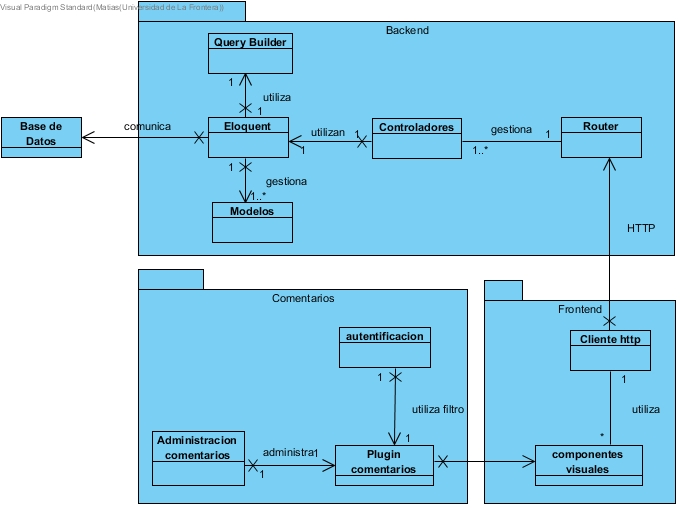
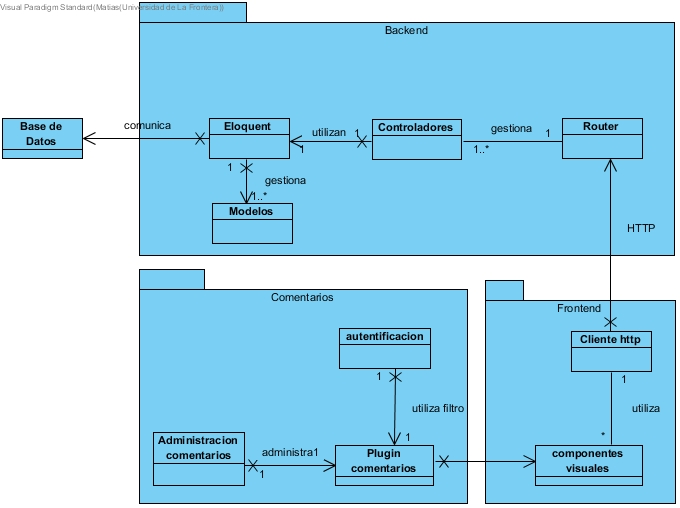
Update estructura

diff --git a/docs/data/3_estructura.rst b/docs/data/3_estructura.rst
@@ -8,13 +8,13 @@ Visión general
     :scale: 60%
     :align: center
 
-El sistema se divide en 2 componentes, un backend y un frontend. Ademas de trabajar en conjunto con un motor de base de datos y un plugin comercial para el manejo de las preguntas
+El sistema se divide en 2 componentes, un backend y un Frontend. Además de trabajar en conjunto con un motor de base de datos y un plugin comercial para el manejo de las preguntas
 
-el backend es una api que recibe y maneja peticiones HTTP considerandose un servicio RESTful con una arquitectura orientada a servicios. Cuenta con un manejador de rutas que asigna las peticiones a los controladore correspondientes, aparte de asignarlo por controlador la asignacion se realiza segun el verbo de la peticion (GET, PUT) a las diferentes funciones dentro de cada controlador. El backend accede a los registros de la base de datos a traves de un ORM que sigue el patron arquitectural de registro activo, el uso del ORM permite la independecia del backend en relacion al motor de la base de datos.
+El backend es una API que recibe y maneja peticiones HTTP considerándose un servicio RESTful con una arquitectura orientada a servicios. Cuenta con un manejador de rutas que asigna las peticiones a los controladores correspondientes, aparte de asignarlo por controlador la asignación se realiza según el verbo de la petición (GET, PUT) a las diferentes funciones dentro de cada controlador. El backend accede a los registros de la base de datos a través de un ORM que sigue el patrón arquitectural de registro activo, el uso del ORM permite la independencia del backend en relación al motor de la base de datos.
 
-los modelos permiten relacionar la estructura de la base de datos para que el ORM pueda pueda detectar automaticamente las tablas y sus atributos. Las consultas a la base de datos se afectuan a travez de un contructor de consultas, este constructor de consultas  utiliza el enlace de parámetros PDO (PHP Data Objects) para proteger su aplicación contra ataques de inyección de SQL.
+los modelos permiten relacionar la estructura de la base de datos para que el ORM pueda detectar automáticamente las tablas y sus atributos. Las consultas a la base de datos se efectúan a través de un constructor de consultas, este constructor de consultas utiliza el enlace de parámetros PDO (PHP Data Objects) para proteger su aplicación contra ataques de inyección de SQL.
 
-el frontend bla bla bla bla
+El Frontend es una aplicación web de página única (SPA por sus siglas en ingles) esto quiere decir que cada componente se carga una vez, ya sea los códigos HTML, JavaScript o CSS. el resto de recursos se carga dinámicamente según la pagina lo requiera 
 
 
 Descripcion de componentes
@@ -86,20 +86,6 @@ Componentes Backend
 | **Problemas**             |                                                                             |
 +---------------------------+-----------------------------------------------------------------------------+
 
-+---------------------------+-----------------------------------------------------------------------------+
-| **Componente**            | Backend_Query_Builder                                                       |
-+---------------------------+-----------------------------------------------------------------------------+
-| **Responsabilidades**     | - facilitar la sintaxis de la creacion de consultas hacia la base de datos  |
-|                           |   y ayudar en la seguridad impidiendo inyecciones SQL                       |
-+---------------------------+-----------------------------------------------------------------------------+
-| **Colaboradores**         | - **Componente:** Eloquent                                                  |
-|                           |                                                                             |
-+---------------------------+-----------------------------------------------------------------------------+
-| **Notas**                 | El componente se crea una sola vez y persiste durante todo el tiempo.       |
-|                           |                                                                             |
-+---------------------------+-----------------------------------------------------------------------------+
-| **Problemas**             |                                                                             |
-+---------------------------+-----------------------------------------------------------------------------+
 
 +---------------------------+-----------------------------------------------------------------------------+
 | **Componente**            | Backend_Modelos                                                             |
@@ -120,10 +106,9 @@ Componente Base de Datos
 --------------
 
 +---------------------------+-----------------------------------------------------------------------------+
-| **Componente**            | Backend_Modelos                                                             |
+| **Componente**            | Backend_Base_de_Datos                                                       |
 +---------------------------+-----------------------------------------------------------------------------+
-| **Responsabilidades**     | - facilitar la comprension de la estructura y forma de lo datos a obtener   |
-|                           |   u almacenar en la base de datos                                           |
+| **Responsabilidades**     | - almacenar todos los registros a los que el usuario puede acceder          |
 +---------------------------+-----------------------------------------------------------------------------+
 | **Colaboradores**         | - **Componente:** Eloquent                                                  |
 |                           |                                                                             |
@@ -161,8 +146,8 @@ Frontend
 | **Colaboradores**         | - **Componente:** Backend_Router                                            |
 |                           |                                                                             |
 +---------------------------+-----------------------------------------------------------------------------+
-| **Notas**                 | El componente se crea cada vez que se quiere realizar una peticion htpp     |
-|                           |                                                                             |
+| **Notas**                 | El componente se crea una vez y persiste mientras el frontend se encuentre  |
+|                           | instanceado                                                                 |
 +---------------------------+-----------------------------------------------------------------------------+
 | **Problemas**             |                                                                             |
 +---------------------------+-----------------------------------------------------------------------------+
@@ -201,7 +186,7 @@ Comentarios
 +---------------------------+-----------------------------------------------------------------------------+
 
 +---------------------------+-----------------------------------------------------------------------------+
-| **Componente**            | Plugin_Comentarios                                                          |
+| **Componente**            | Comentarios_Plugin_Comentarios                                              |
 +---------------------------+-----------------------------------------------------------------------------+
 | **Responsabilidades**     | - permite implementar e integrar el plugin en los componentes visuales      |
 |                           |                                                                             |
@@ -216,7 +201,7 @@ Comentarios
 +---------------------------+-----------------------------------------------------------------------------+
 
 +---------------------------+-----------------------------------------------------------------------------+
-| **Componente**            | Autentificacion                                                             |
+| **Componente**            | Comentarios_Autentificacion                                                 |
 +---------------------------+-----------------------------------------------------------------------------+
 | **Responsabilidades**     | - permite autenticarse en la pagina para poder interactuar con las preguntas|
 |                           |   y respuestas                                                              |
@@ -231,7 +216,7 @@ Comentarios
 +---------------------------+-----------------------------------------------------------------------------+
 
 +---------------------------+-----------------------------------------------------------------------------+
-| **Componente**            | Administracion_Comentarios                                                  |
+| **Componente**            | Comentarios_Administracion_Comentarios                                      |
 +---------------------------+-----------------------------------------------------------------------------+
 | **Responsabilidades**     | - permite administrar las preguntas, ya sea restrigiendo palabras o         |
 |                           |   a usuarios en especifico                                                  |
